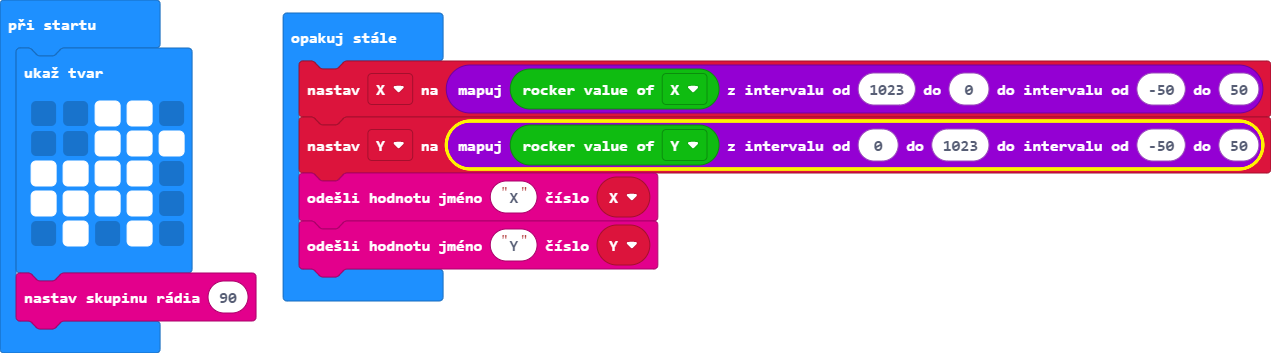
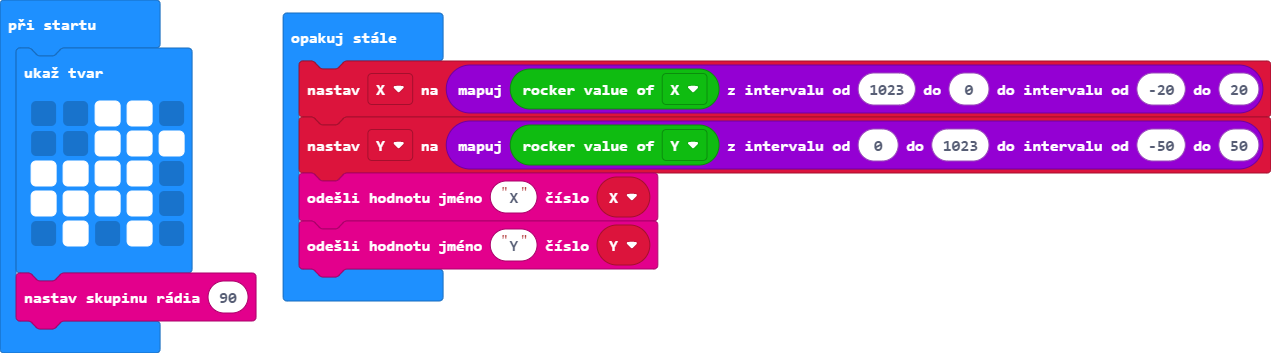
Aktualizovat main.blocks, main.ts

Changed region(s): [[0.3375, 0.3116, 1.0, 0.4986]]

diff --git a/main.ts b/main.ts
@@ -9,7 +9,7 @@ basic.showLeds(`
     `)
 radio.setGroup(90)
 basic.forever(function () {
-    X = Math.map(joystickbit.getRockerValue(joystickbit.rockerType.X), 1023, 0, -50, 50)
+    X = Math.map(joystickbit.getRockerValue(joystickbit.rockerType.X), 1023, 0, -20, 20)
     Y = Math.map(joystickbit.getRockerValue(joystickbit.rockerType.Y), 0, 1023, -50, 50)
     radio.sendValue("X", X)
     radio.sendValue("Y", Y)
